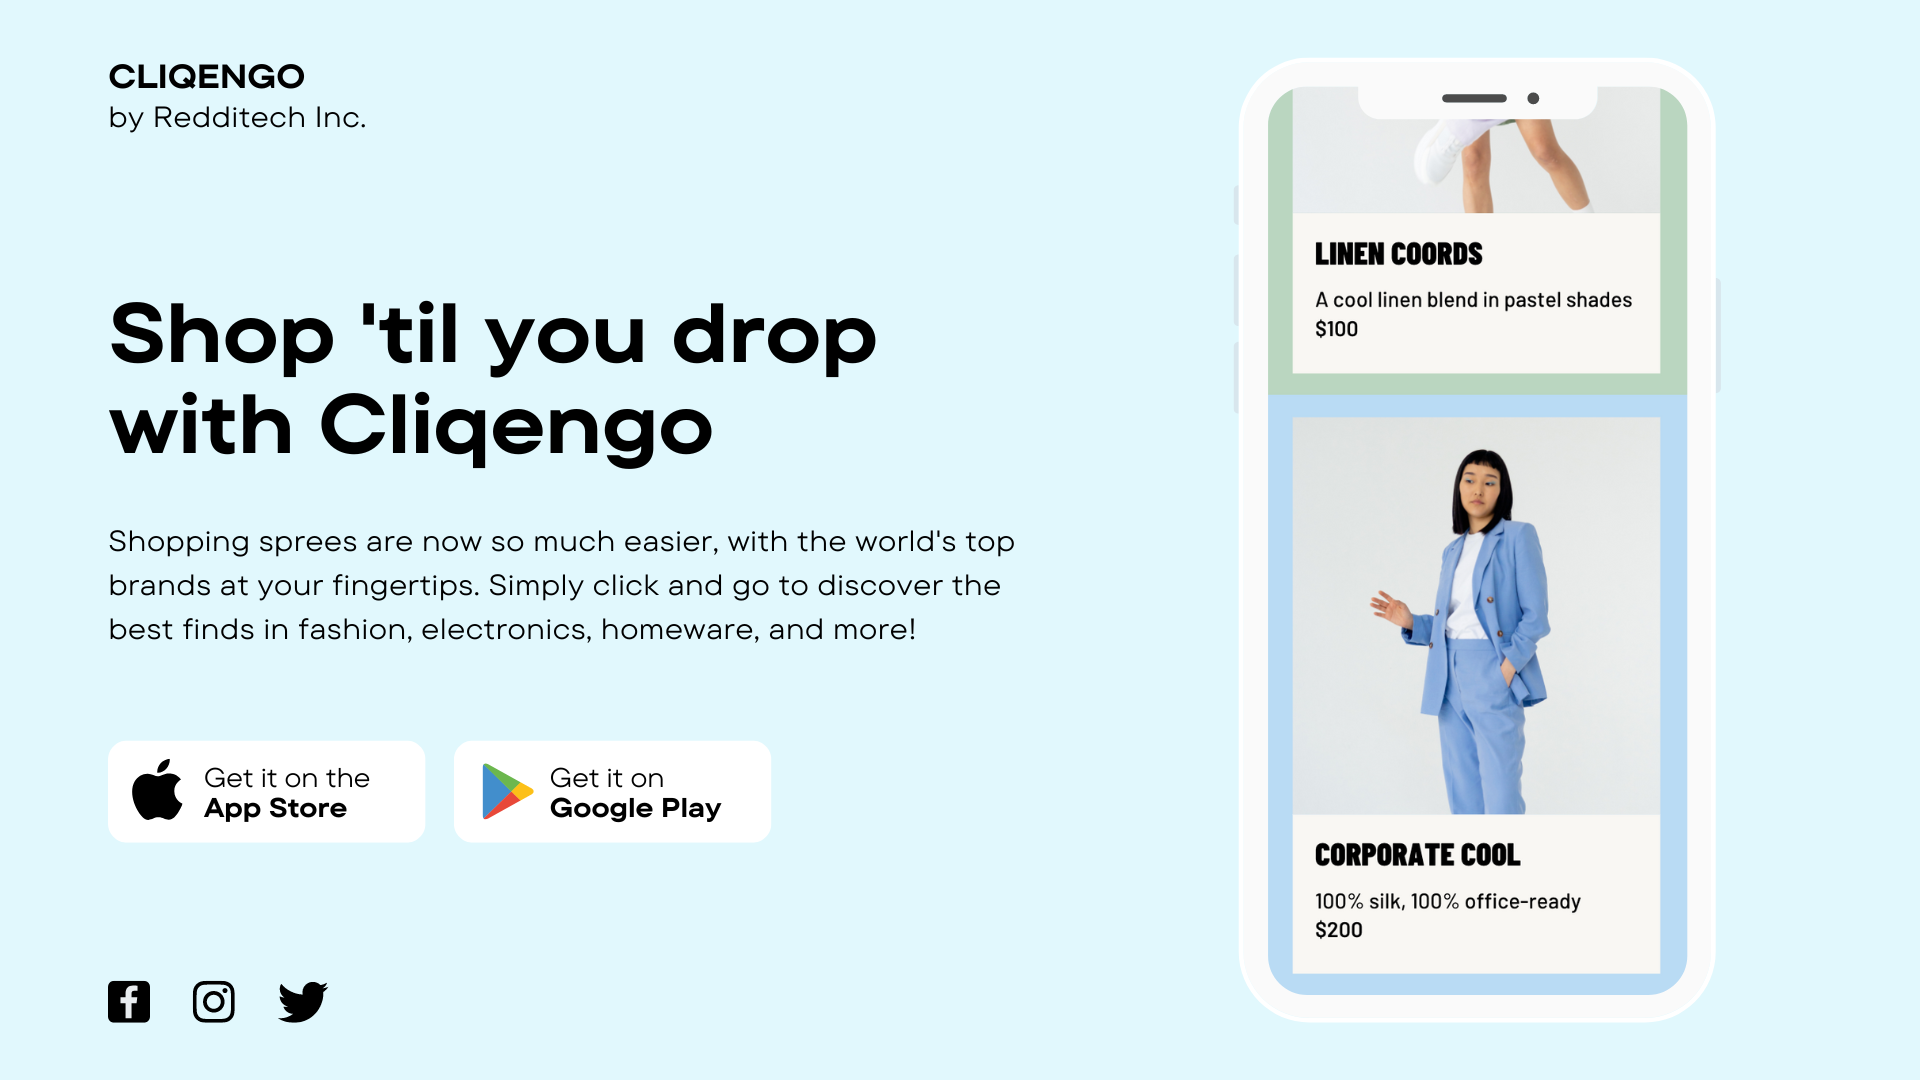
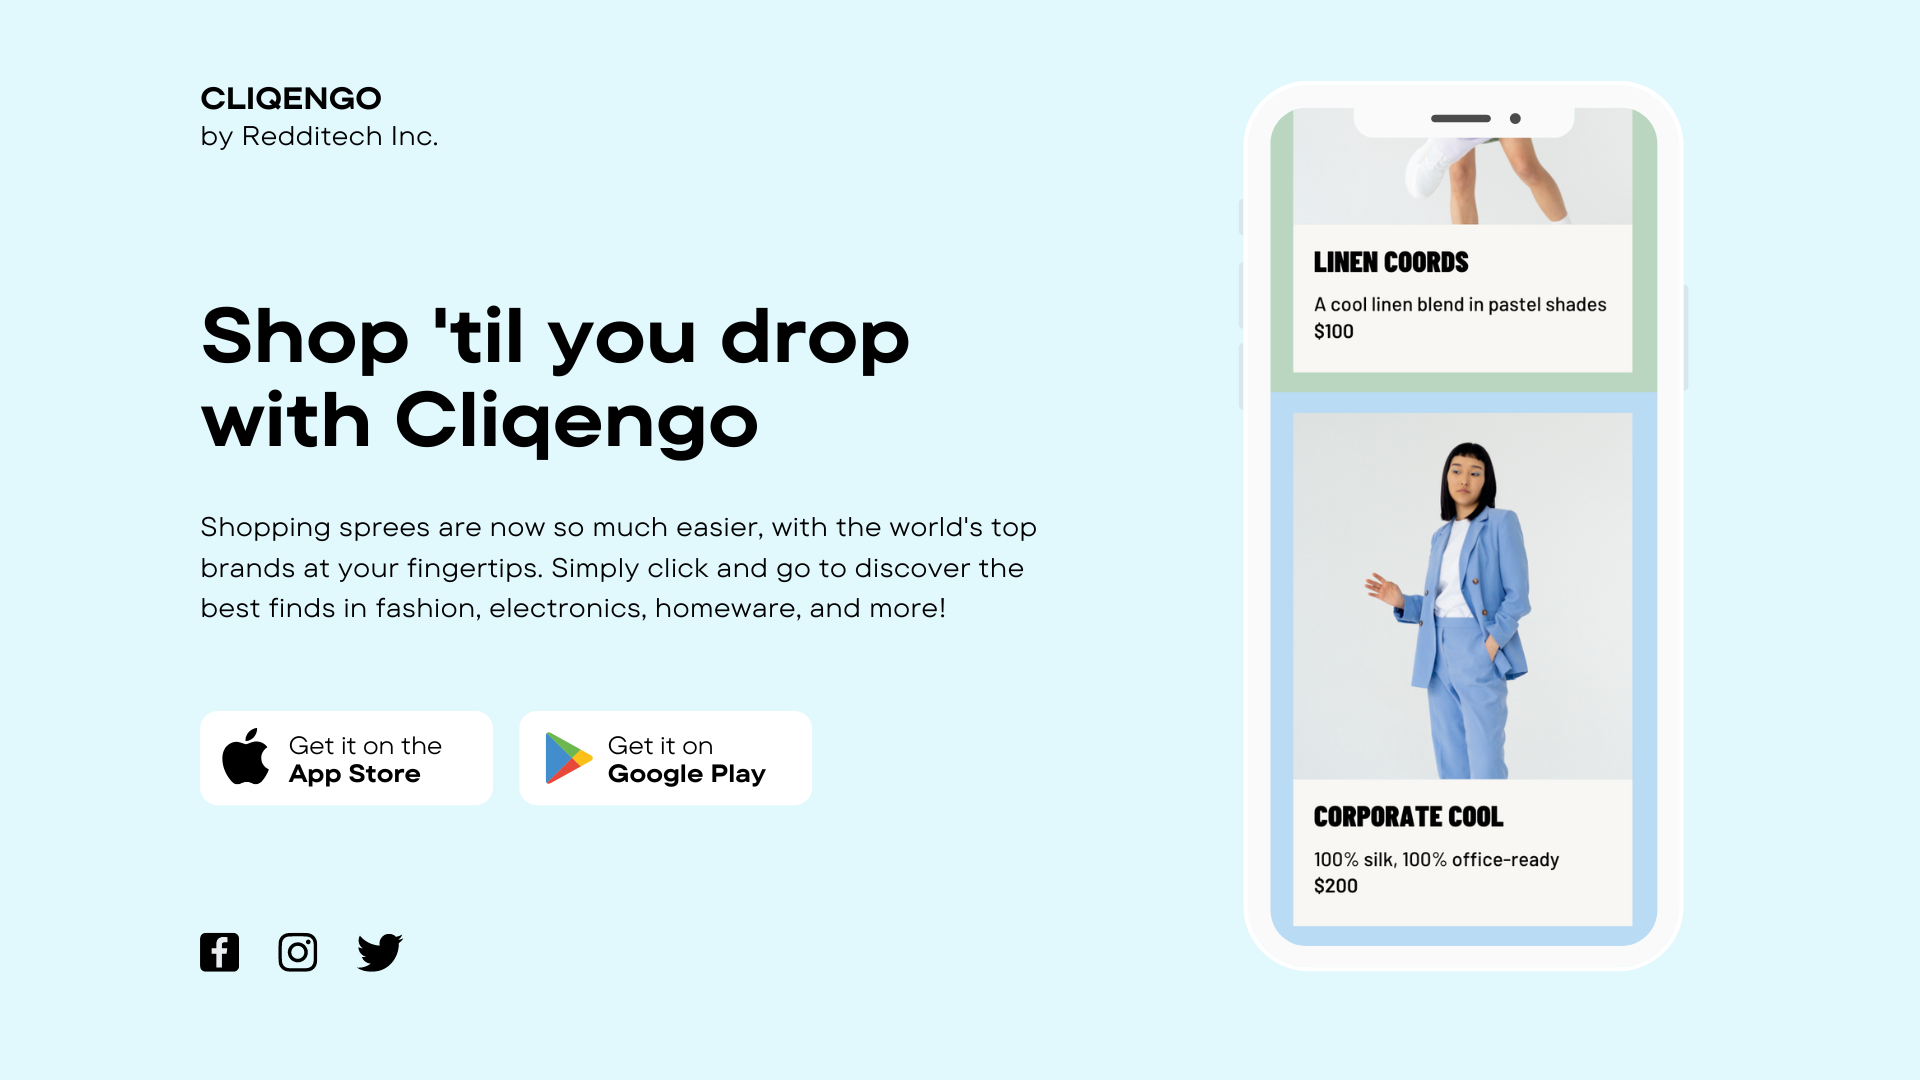
changes

diff --git a/src/App.css b/src/App.css
@@ -260,12 +260,15 @@
   justify-content: center;
   align-items: center;
   object-fit: contain;
+  margin-left: 100px;
 }
 
 .hero-container > .typing {
   color: black;
   font-size: 60px;
   margin-top: -150px;
+  margin-right: 50px;
+  margin-left: 50px;
 }
 
 .hero-container > p {
@@ -273,7 +276,7 @@
   color: black;
   font-size: 32px;
   margin-right: 50px;
-  margin-left: 30px;
+  margin-left: 50px;
   font-family: 'Trebuchet MS', 'Lucida Sans Unicode', 'Lucida Grande',
     'Lucida Sans', Arial, sans-serif;
 }
@@ -293,7 +296,7 @@
 
 .image img {
   height: 99%;
-  width: 70%;
+  width: 80%;
   padding-left: 70px;
 }
 
@@ -301,8 +304,17 @@
 .fa-play-circle {
   margin-left: 4px;
 }
+@media screen and (max-width: 1700px) {
+  .hero-container {
+    margin-left: 0;
+  }
+  .hero-container > .typing {
+    font-size: 50px;
+    margin-top: -150px;
+  }
+}
 
-@media screen and (max-width: 1268px) {
+@media screen and (max-width: 1232px) {
   .image {
       display: none
     }
@@ -463,7 +475,7 @@ h1 {
 
 .footer-container {
   background-color: #242424;
-  padding: 4rem 0 2rem 0;
+  padding: 1rem 0 2rem 0;
   display: flex;
   flex-direction: column;
   justify-content: center;
@@ -477,8 +489,8 @@ h1 {
   align-items: center;
   text-align: center;
 
-  margin-bottom: 24px;
-  padding: 24px;
+  margin-bottom: 20px;
+  padding: 20px;
   color: #fff;
 }
 
@@ -493,18 +505,18 @@ h1 {
 }
 
 .footer-subscription-text {
-  margin-bottom: 24px;
+  margin-bottom: 20px;
   font-size: 20px;
 }
 
 .footer-input {
-  padding: 8px 20px;
+  padding: 4px 15px;
   border-radius: 2px;
   margin-right: 10px;
   outline: none;
   border: none;
   font-size: 18px;
-  margin-bottom: 16px;
+  margin-bottom: 12px;
   border: 1px solid #fff;
 }
 
@@ -523,7 +535,7 @@ h1 {
   display: flex;
   flex-direction: column;
   align-items: flex-start;
-  margin: 16px;
+  margin: 12px;
   text-align: left;
   width: 160px;
   box-sizing: border-box;
@@ -540,7 +552,7 @@ h1 {
 .footer-link-items a {
   color: #fff;
   text-decoration: none;
-  margin-bottom: 0.5rem;
+  margin-bottom: 0.2rem;
 }
 
 .footer-link-items a:hover {
@@ -549,7 +561,7 @@ h1 {
 }
 
 .footer-email-form h2 {
-  margin-bottom: 2rem;
+  margin-bottom: 1rem;
 }
 
 .footer-input::placeholder {
@@ -573,7 +585,7 @@ h1 {
   align-items: center;
   width: 90%;
   max-width: 1000px;
-  margin: 40px auto 0 auto;
+  margin: 20px auto 0 auto;
 }
 
 .social-icons {
@@ -645,6 +657,7 @@ h1 {
   justify-content: center;
   align-items: center;
   object-fit: contain;
+  margin-left: 100px;
 }
 
 .about-container > h1 {
@@ -656,47 +669,51 @@ h1 {
 .about-container > p {
   margin-top: 8px;
   color: black;
-  font-size: 32px;
+  font-size: 25px;
   margin-right: 50px;
-  margin-left: 30px;
+  margin-left: 60px;
   font-family: 'Trebuchet MS', 'Lucida Sans Unicode', 'Lucida Grande',
     'Lucida Sans', Arial, sans-serif;
 }
 
-.image {
+.about-image {
   background-color: aliceblue;
   height: 100%;
   width: 100%;
+  padding-top: 100px;
 }
 
-.image img {
-  height: 99%;
-  width: 70%;
+.about-image img {
+  height: 80%;
+  width: 80%;
   padding-left: 70px;
 }
 
-@media screen and (max-width: 1268px) {
-  .image {
+@media screen and (max-width: 1232px) {
+  .about-container {
+    margin-left: 0;
+  }
+  .about-image {
       display: none
     }
-  .hero-container > h1 {
+  .about-container > h1 {
     font-size: 60px;
     margin-top: -150px;
   }
 
-  .hero-container > p {
-    font-size: 40px;
+  .about-container > p {
+    font-size: 25px;
 }
 }
 
 @media screen and (max-width: 768px) {
-  .hero-container > h1 {
+  .about-container > h1 {
     font-size: 50px;
     margin-top: -100px;
   }
 
 
-  .hero-container > p {
-    font-size: 30px;
+  .about-container > p {
+    font-size: 25px;
   }
 }

diff --git a/src/pages/About.js b/src/pages/About.js
@@ -1,20 +1,23 @@
 import Footer from "../components/Footer";
 import Navbar from "../components/Navbar";
+import Specialization from "../components/Specialization";
 
 const About = () => {
     return (
       <div className="about">
       <Navbar />
-       <div className='section'>
-       <div className='section-container'>
+       <div className='about-section'>
+       <div className='about-container'>
        <h1>About Us</h1>
-       <p>Get Set Web is a platform for small to medium scale businesses to get themselves digitalized through our website development services. No pre-made templates or designs, Getsetweb will provide you with the customized website as per your choice that best suits your pocket.
-        We are a team of highly dedicated and committed website developers, who will be available to assist their clients, each and every second.</p>
+       <p>Get Set Web is a platform for small to medium scale businesses to get themselves digitalized through our website development services. No pre-made templates or designs, Getsetweb will provide you with the customized website as per your choice that best suits your pocket.</p><br/>
+        <p>We are a team of highly dedicated and committed website developers, who will be available to assist their clients, each and every second.</p>
      </div>
-     <div className='image'>
-       <img src="images/proimage.png" alt='logo'/>
+     <div className='about-image'>
+       <img src="images/Aboutimage.png" alt='logo'/>
      </div>
      </div>
+     <hr />
+     <Specialization />
      <Footer />
      </div>
     );

diff --git a/src/components/Footer.js b/src/components/Footer.js
@@ -1,5 +1,5 @@
 import '../App.css';
-import { Link } from 'react-router-dom';
+import { NavLink, Link } from 'react-router-dom';
 
 function Footer() {
   return (
@@ -9,10 +9,10 @@ function Footer() {
       <div class='footer-links'>
         <div className='footer-link-wrapper'>
           <div class='footer-link-items'>
-            <Link to="/about"><h2>About Us</h2></Link>
+            <NavLink to="/about"><h2>About Us</h2></NavLink>
           </div>
           <div class='footer-link-items'>
-            <Link to="/contact"><h2>Contact Us</h2></Link>
+            <NavLink to="/contact"><h2>Contact Us</h2></NavLink>
           </div>
         </div>
         <div className='footer-link-wrapper'>
@@ -43,14 +43,6 @@ function Footer() {
               aria-label='Instagram'
             >
               <i class='fab fa-instagram' />
-            </Link>
-            <Link
-              class='social-icon-link youtube'
-              to='/'
-              target='_blank'
-              aria-label='Youtube'
-            >
-              <i class='fab fa-youtube' />
             </Link>
             <Link
               class='social-icon-link twitter'

diff --git a/src/components/Navbar.js b/src/components/Navbar.js
@@ -20,14 +20,14 @@ function Navbar() {
                         <i className={click ? 'fas fa-times' : 'fas fa-bars'} />
                     </div>
                     <ul className={click ? 'nav-menu active' : 'nav-menu'}>
-                        <li className="nav-item">
-                            <NavLink to='/about' className='nav-links' onClick={closeMobileMenu}>
-                                About
+                    <li className="nav-item">
+                            <NavLink to='/' className='nav-links' onClick={closeMobileMenu}>
+                                Home
                             </NavLink>
                         </li> 
                         <li className="nav-item">
-                            <NavLink to='/specialization' className='nav-links' onClick={closeMobileMenu}>
-                                Specialization
+                            <NavLink to='/about' className='nav-links' onClick={closeMobileMenu}>
+                                About
                             </NavLink>
                         </li> 
                         <li className="nav-item">

diff --git a/src/App.js b/src/App.js
@@ -1,6 +1,5 @@
 import Homepage from './pages/Homepage';
 import About from './pages/About';
-import Specialization from './pages/Specialization';
 import Contact from './pages/Contact';
 import './App.css';
 import { Route, Routes, useLocation } from 'react-router-dom';
@@ -12,7 +11,6 @@ function App() {
     <Routes location={location} key={location.pathname}>
       <Route exact path="/" element={ <Homepage />}/>
       <Route exact path="/about" element={ <About />}/>
-      <Route exact path="/specialization" element={ <Specialization />}/>
       <Route exact path="/contact" element={ <Contact />}/>
     </Routes>
     </>

diff --git a/src/components/Specialization.js b/src/components/Specialization.js
@@ -1,0 +1,17 @@
+import "../App.css"
+
+function Specialization() {
+    return (
+       <div className='about-section'>
+        <div className='about-image'>
+       <img src="images/Aboutimage.png" alt='logo'/>
+     </div>
+       <div className='about-container'>
+       <h1>Our Specialization</h1>
+       <p>We are specialised in designing and developing your own website, customised by you, handled by us. Our website developers will contact you once our business development team connects with you.</p>
+     </div>
+     </div>
+    );
+  };
+
+export default Specialization;
